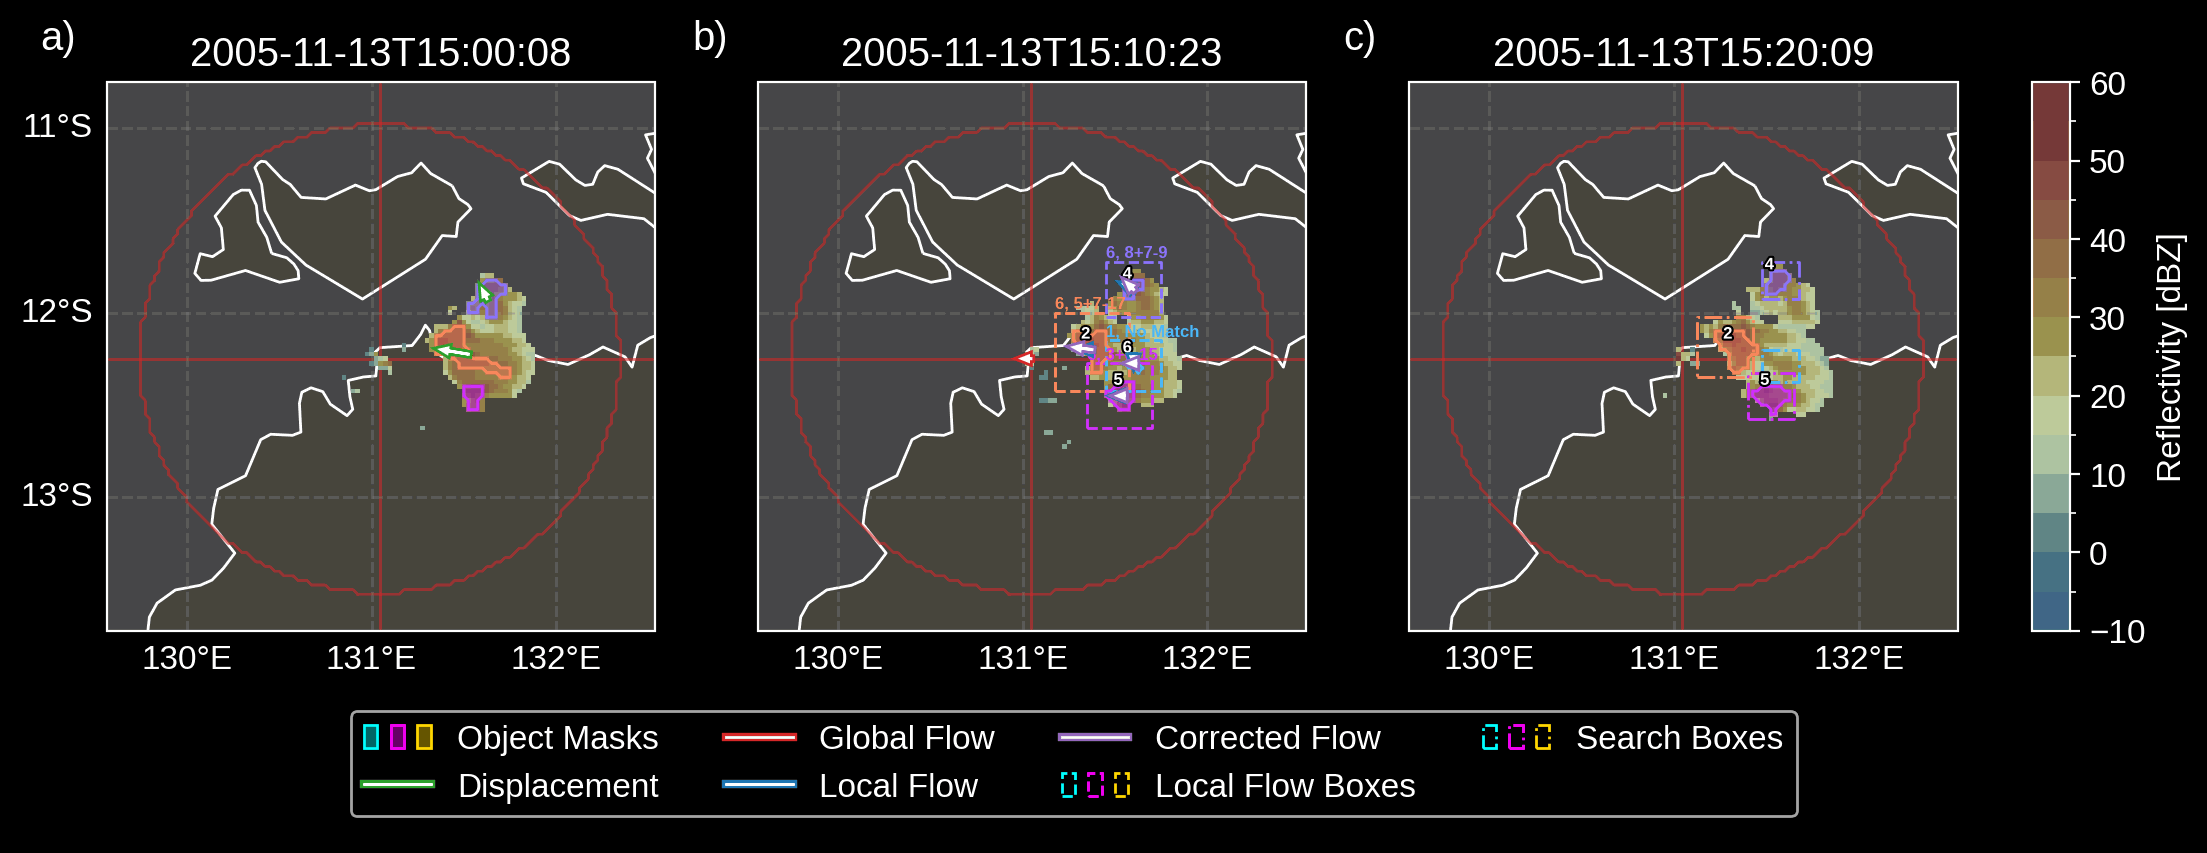
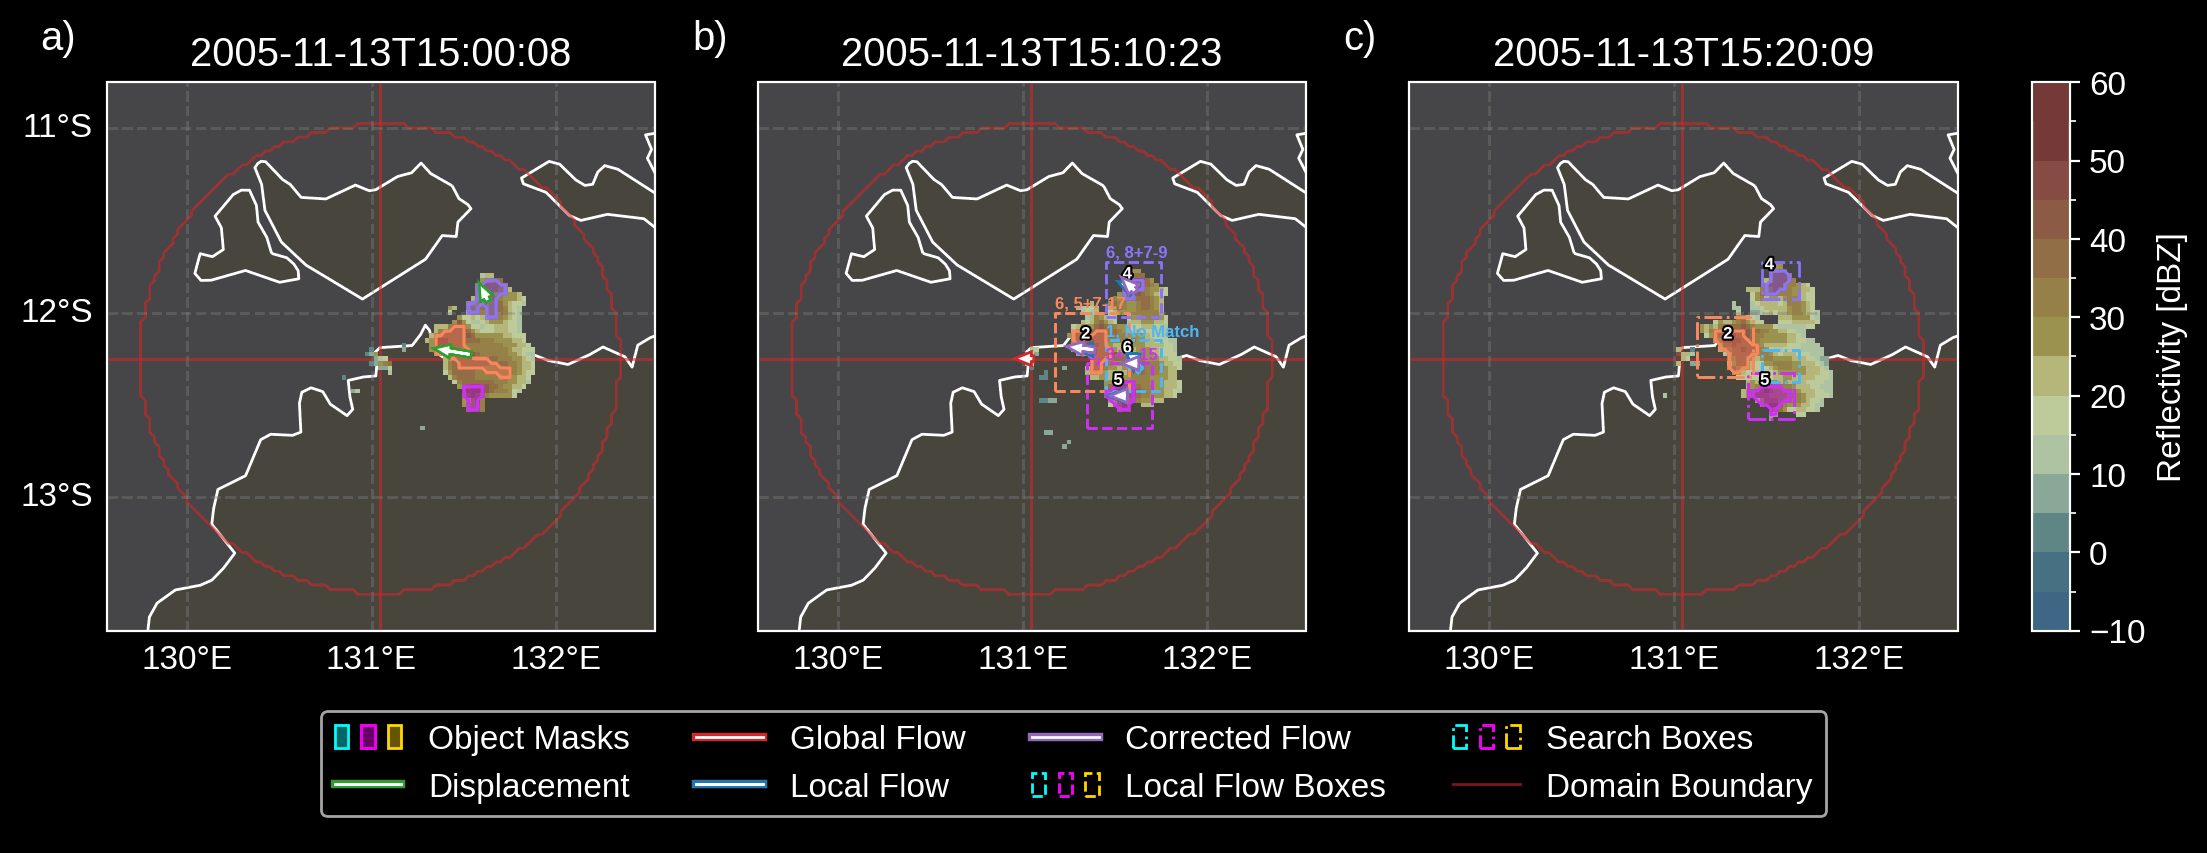
amend gallery images

Changed region(s): [[0.1232, 0.823, 0.8319, 0.9449]]

diff --git a/thuner/visualize/runtime.py b/thuner/visualize/runtime.py
@@ -263,6 +263,10 @@ def visualize_tint_match(
     handles = handles + [handle]
     labels = labels + ["Search Boxes"]
 
+    handle = horizontal.domain_boundary_legend_artist()
+    handles = handles + [handle]
+    labels = labels + ["Domain Boundary"]
+
     legend_options = {"ncol": 4, "loc": "lower center", "handler_map": handler}
     legend_axes[0].legend(handles, labels, **legend_options)
 
